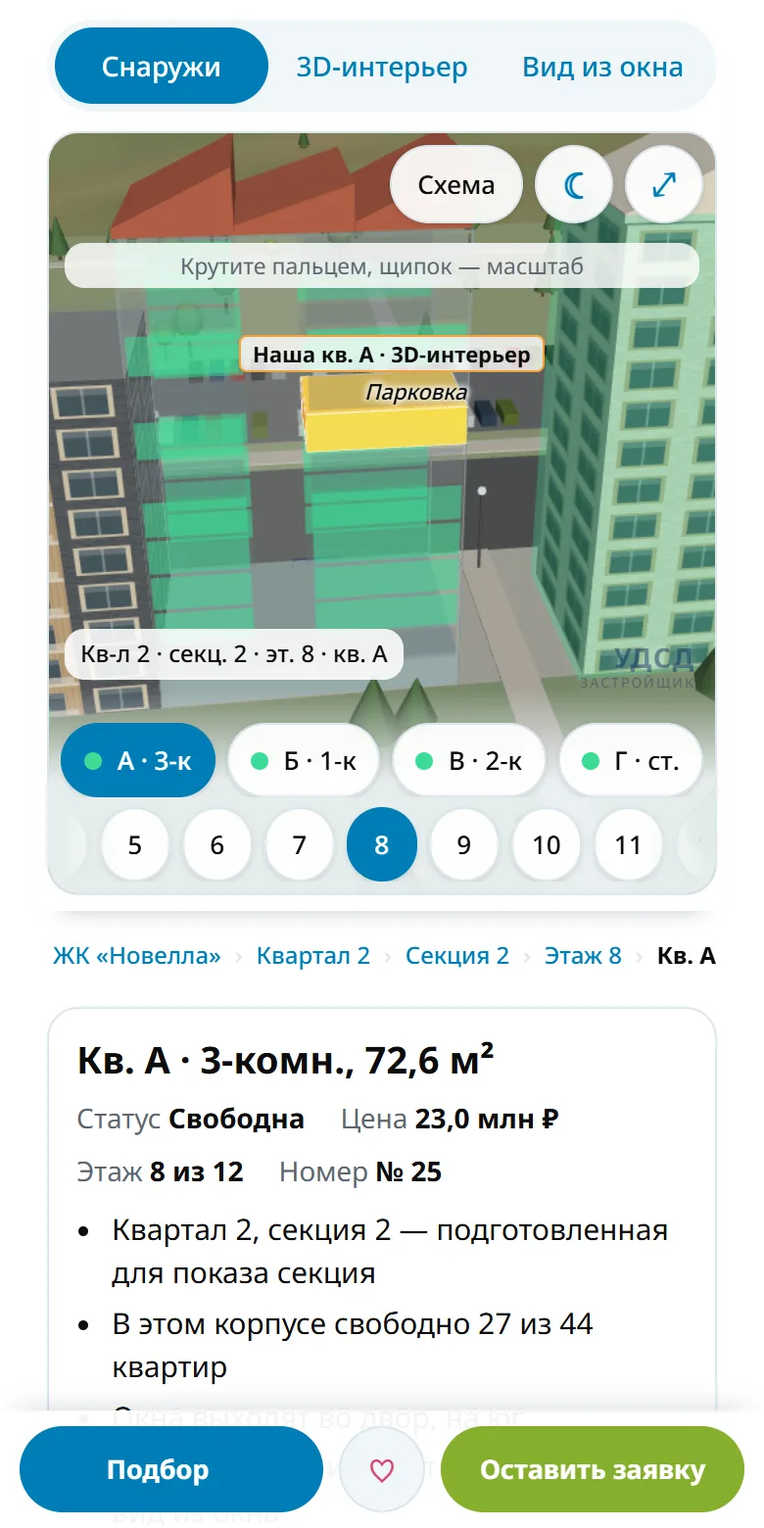
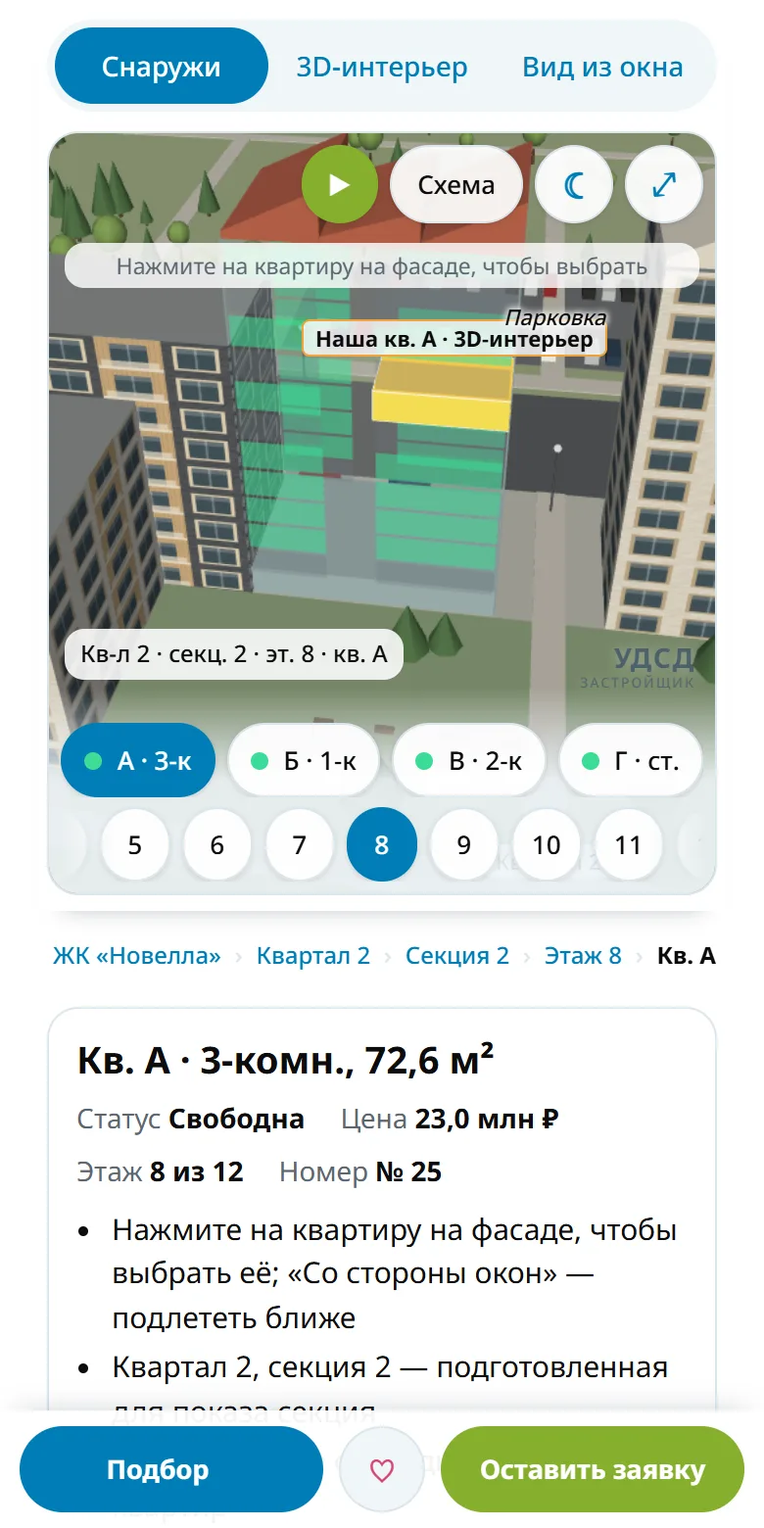
Выбор «сначала дом, потом квартира», экскурсия по шагам, старт на нашей квартире в 3D
Корпус выбирается касанием — камера подлетает и показывает весь дом, квартиры выбираются на его фасаде (ракурс «Весь дом»).
Экскурсия: 12 шагов от города до вида из окна вечером с плавными пролётами, пауза/шаги/выход, касание 3D — пауза; ?tour=1 и кнопка в КП.
Демо открывается на 3D-интерьере квартиры А; для остальных квартир 3D-интерьер и вид из окна — «в разработке».

Changed region(s): [[0.0615, 0.0615, 0.9538, 0.4923], [0.1538, 0.8, 0.8923, 0.9231]]

diff --git a/demo/index.html b/demo/index.html
@@ -215,6 +215,23 @@ svg text{font-family:var(--f-body)}
 /* taps: no double-tap zoom or delay on controls, no grey flash in Safari */
 button,select,summary,a,.chip,.rl{touch-action:manipulation;-webkit-tap-highlight-color:transparent}
 .stage.walk .logo{display:none}   /* walking: the mini-map takes that corner */
+.tabs button.dev:not([aria-pressed="true"]),.chip.dev{opacity:.5}   /* not drawn for the chosen flat yet: «в разработке» on tap */
+/* guided tour */
+.tourbtn{background:var(--green);border-color:var(--green);color:#fff;font-weight:700}
+@media (min-width:641px){.badge{max-width:calc(100% - 400px);white-space:nowrap;overflow:hidden;text-overflow:ellipsis}}
+@media (min-width:641px) and (max-width:1399px){.tourbtn .lg{display:none}}   /* the tool row would reach the location badge */
+body.touring #dock,body.touring .hint,body.touring .badge,body.touring #tourBtn,body.touring .logo,body.touring .mini{display:none}
+.tour{position:absolute;left:8px;right:8px;bottom:8px;z-index:3;display:flex;flex-direction:column;gap:6px;max-width:620px;margin:0 auto;background:color-mix(in srgb,var(--surf) 95%,transparent);border-radius:16px;padding:10px 12px;box-shadow:0 6px 22px rgba(0,0,0,.18)}
+.tour[hidden]{display:none}
+.tour-t{display:flex;justify-content:space-between;align-items:baseline;gap:10px}
+.tour-t b{font:700 17px var(--f-display)}
+.tour-t span{font-size:12.5px;color:var(--mut);white-space:nowrap}
+.tour p{margin:0;font-size:14px;line-height:1.4;color:var(--fg)}
+.tour-b{display:flex;gap:6px;align-items:center}
+.tour-dots{flex:1;display:flex;gap:3px;min-width:0}
+.tour-dots i{flex:1;height:4px;border-radius:2px;background:var(--line)}
+.tour-dots i.on{background:var(--acc)}
+.devtag{display:inline-block;font-size:12px;font-weight:600;color:#9a6a00;background:#fff3cd;border-radius:999px;padding:2px 9px;margin-left:6px;vertical-align:middle}
 /* side panel: where you are, card, finder */
 .side{display:flex;flex-direction:column;gap:14px;min-width:0}
 .crumbs{gap:4px;align-items:center;font-size:13px;color:var(--mut);padding:0}
@@ -319,6 +336,7 @@ button,select,summary,a,.chip,.rl{touch-action:manipulation;-webkit-tap-highligh
     <div class="badge" id="badge" hidden></div>
     <!-- one row of tools at the top right: plan, day/evening (chips on wide screens, one toggle on phones), full screen -->
     <div class="tbar">
+      <button type="button" class="planbtn tourbtn" id="tourBtn" aria-label="Экскурсия по «Новелле»">▶<span class="lg"> Экскурсия</span></button>
       <button type="button" class="planbtn" id="planBtn"><span class="lg">Схема квартиры</span><span class="sm">Схема</span></button>
       <div class="chips tchips" id="rTime" role="group" aria-label="Освещение"></div>
       <button type="button" class="icobtn sm" id="timeBtn" aria-label="Включить вечер">☾</button>
@@ -333,6 +351,18 @@ button,select,summary,a,.chip,.rl{touch-action:manipulation;-webkit-tap-highligh
       <div class="chips" id="rWin" data-m="win" role="group" aria-label="Окно"></div>
       <div class="chips" id="rApt" data-m="ext" role="group" aria-label="Квартира на этаже"></div>
       <div class="chips" id="rFloor" data-m="win ext" role="group" aria-label="Этаж"><span class="dlab">Этаж</span></div>
+    </div>
+    <!-- guided tour: one continuous journey from the city to the window, with camera flights between the steps -->
+    <div class="tour" id="tour" hidden role="region" aria-label="Экскурсия">
+      <div class="tour-t"><b id="tourT"></b><span id="tourN"></span></div>
+      <p id="tourD" aria-live="polite"></p>
+      <div class="tour-b">
+        <button type="button" class="icobtn" id="tourPrev" aria-label="Предыдущий шаг">‹</button>
+        <button type="button" class="icobtn" id="tourPlay" aria-label="Пауза">❚❚</button>
+        <button type="button" class="icobtn" id="tourNext" aria-label="Следующий шаг">›</button>
+        <div class="tour-dots" id="tourDots"></div>
+        <button type="button" class="icobtn" id="tourExit" aria-label="Выйти из экскурсии">✕</button>
+      </div>
     </div>
     <div class="fallback" id="fb"><div>Не удалось запустить 3D в этом браузере.<br>Обновите страницу (Ctrl+F5) или откройте её в Chrome, Яндекс Браузере или Edge. Если не помогло — включите в настройках браузера аппаратное ускорение.<small></small></div></div>
   </div>
@@ -389,6 +419,14 @@ button,select,summary,a,.chip,.rl{touch-action:manipulation;-webkit-tap-highligh
   <button type="button" class="chip mlead" id="mLead">Оставить заявку</button>
 </nav>
 <div class="tip" id="tip" hidden></div>
+<div class="dlg" id="dev" hidden role="dialog" aria-label="В разработке">
+  <div class="dlg-in">
+    <h2>В разработке</h2>
+    <p id="devWhat"></p>
+    <p class="note">В пилоте 3D-интерьеры и вид из окна строятся для всех планировок по проектам застройщика.</p>
+    <div class="dlg-btns"><button type="button" class="chip pick-show" id="devGo">Открыть квартиру А в 3D</button><button type="button" class="chip" id="devClose">Остаться здесь</button></div>
+  </div>
+</div>
 <div class="scrim" id="scrim" hidden></div>
 <div class="dlg" id="lead" hidden role="dialog" aria-label="Заявка на квартиру">
   <div class="dlg-in">
@@ -1129,7 +1167,7 @@ button,select,summary,a,.chip,.rl{touch-action:manipulation;-webkit-tap-highligh
       const sel = ext && sec.i === S.sec;
       if (sec.own) { sec.mesh.visible = ext && !(sel && glass); if (ownPart) ownPart.visible = !ext; }
       else sec.mesh.visible = !(sel && glass);
-      sec.ov.visible = ext && (S.layer === 'free' || fltOn()) && !sel;
+      sec.ov.visible = ext && (S.layer === 'free' || fltOn()) && !sel && S.extView !== 'house';   // «Весь дом»: only the chosen building speaks
     });
     selGlass.visible = selEdges.visible = ext && S.house === 'glass';
     cellG.visible = ext;
@@ -1329,7 +1367,7 @@ button,select,summary,a,.chip,.rl{touch-action:manipulation;-webkit-tap-highligh
     controls.minDistance = 0; controls.maxDistance = 100; controls.maxPolarAngle = Math.PI;
     const to = { pos: new THREE.Vector3(...pos), tgt: new THREE.Vector3(...tgt) };
     if (instant) { camera.position.copy(to.pos); controls.target.copy(to.tgt); limits(); }
-    else anim = { t0: performance.now(), dur: 900, p0: camera.position.clone(), g0: controls.target.clone(), to: to };
+    else anim = { t0: performance.now(), dur: document.body.classList.contains('touring') ? 1800 : 900, p0: camera.position.clone(), g0: controls.target.clone(), to: to };
   }
   function ease(t) { return t < 0.5 ? 4 * t * t * t : 1 - Math.pow(-2 * t + 2, 3) / 2; }
 
@@ -1352,7 +1390,7 @@ button,select,summary,a,.chip,.rl{touch-action:manipulation;-webkit-tap-highligh
     setRange(0.1, 3000);
     describe();
   }
-  const EXTV = { yard: { label: 'Со стороны окон' }, top: { label: 'Сверху' }, back: { label: 'С противоположной стороны' }, all: { label: 'Все корпуса' }, area: { label: 'Окрестности' }, city: { label: 'Весь город' } };
+  const EXTV = { house: { label: 'Весь дом' }, yard: { label: 'Со стороны окон' }, top: { label: 'Сверху' }, back: { label: 'С противоположной стороны' }, all: { label: 'Все корпуса' }, area: { label: 'Окрестности' }, city: { label: 'Весь город' } };
   function extTarget() {
     const sec = SECTIONS[S.sec], ci = cellInfo(sec, S.apt, S.floor);
     return [ci.c.x - ci.n.x * 3, ci.y + 1.5, ci.c.z - ci.n.z * 3, ci.n];
@@ -1366,6 +1404,15 @@ button,select,summary,a,.chip,.rl{touch-action:manipulation;-webkit-tap-highligh
     // the neighbourhood: over the quarters towards the nearest districts of the northern part of the city (south-east)
     if (S.extView === 'area') { flyTo([-800, 620, -950], [650, 0, 550], instant); return; }
     if (S.extView === 'all') { flyTo([0, 420, 270], [0, 0, 0], instant); return; }
+    // the chosen building as a whole: its facade on the side of the chosen apartment fills the screen, every flat on it pickable
+    if (S.extView === 'house') {
+      updateFov();
+      const sec = SECTIONS[S.sec], h = sec.floors * FLOOR_H, c = [sec.cx, h * 0.48, sec.cz], half = Math.tan(THREE.MathUtils.degToRad(camera.fov) / 2);
+      // from above at ~32°, so the opposite wing of the quarter (~50 m across the yard) does not stand between camera and facade
+      const R = Math.max(85, (h + 14) * 1.7 / (2 * half), sec.len * 1.8 / (2 * half * Math.min(camera.aspect, 1.6))), el = 0.6;
+      pos = [c[0] + n.x * R * Math.cos(el) + (n.z ? R * 0.12 : 0), c[1] + R * Math.sin(el), c[2] + n.z * R * Math.cos(el) + (n.x ? R * 0.12 : 0)];
+      flyTo(pos, c, instant); return;
+    }
     if (S.extView === 'top') pos = [tx[0] - 2, tx[1] + 95, tx[2] + 24];
     else if (S.extView === 'back') pos = [tx[0] - n.x * 76 + (n.z ? 10 : 0), tx[1] + 12, tx[2] - n.z * 76 + (n.x ? 10 : 0)];
     else pos = [tx[0] + n.x * 66 + (n.z ? -8 : 0), tx[1] + 30, tx[2] + n.z * 66 + (n.x ? -8 : 0)];
@@ -1459,7 +1506,7 @@ button,select,summary,a,.chip,.rl{touch-action:manipulation;-webkit-tap-highligh
   Object.keys(VIEWS).forEach((k) => chip($('rView'), VIEWS[k].label, () => S.view === k, () => { S.view = k; if (VIEWS[k].out) S.cam = 'top'; enterInterior(false); refresh(true); }));
   chip($('rCam'), 'Сверху, стены срезаны', () => S.cam === 'top', () => { S.cam = 'top'; enterInterior(false); refresh(true); }, { short: 'Сверху' });
   chip($('rCam'), 'Хожу по квартире', () => S.cam === 'walk', () => { S.cam = 'walk'; if (VIEWS[S.view].out) S.view = 'living'; enterInterior(true); refresh(true); }, { short: 'Хожу внутри' });
-  const EXT_SHORT = { yard: 'Со двора', top: 'Сверху', back: 'С улицы', all: 'Все корпуса', area: 'Окрестности', city: 'Весь город' };
+  const EXT_SHORT = { house: 'Весь дом', yard: 'Со двора', top: 'Сверху', back: 'С улицы', all: 'Все корпуса', area: 'Окрестности', city: 'Весь город' };
   Object.keys(EXTV).forEach((k) => chip($('rExtView'), EXTV[k].label, () => S.extView === k, () => { S.extView = k; flyExt(false); refresh(true); }, { short: EXT_SHORT[k] }));
   chip($('rHouse'), 'Прозрачный', () => S.house === 'glass', () => { S.house = 'glass'; refresh(true); });
   chip($('rHouse'), 'Сплошной', () => S.house === 'solid', () => { S.house = 'solid'; refresh(true); });
@@ -1475,10 +1522,11 @@ button,select,summary,a,.chip,.rl{touch-action:manipulation;-webkit-tap-highligh
   /* ---------- selecting buildings and apartments outside ---------- */
   function secName(sec) { return sec.own || sec.n ? 'Квартал ' + sec.q + ', секция ' + sec.n : 'Корпус'; }
   function firstFree(sec, f) { for (const l of LETTERS) if (status(sec.i, f, l) === 'free') return l; return 'a'; }
+  // step 1 of choosing: a building — the camera flies to it and shows its whole facade; step 2: an apartment on that facade
   function selectSection(i) {
     const sec = SECTIONS[i]; S.sec = i; if (S.floor > sec.floors) S.floor = sec.floors; if (S.floor < 2) S.floor = 2;
     S.apt = i === towerSec.i ? 'a' : firstFree(sec, S.floor); if (S.sec === towerSec.i && S.floor === 8) S.apt = 'a';
-    S.inner = false; afterPick();
+    S.inner = false; S.extView = 'house'; afterPick();
   }
   function selectApt(f, l) { S.floor = f; S.apt = l; afterPick(); }
   function afterPick() { placeOutside(); flyExt(false); refresh(true); }
@@ -1520,7 +1568,7 @@ button,select,summary,a,.chip,.rl{touch-action:manipulation;-webkit-tap-highligh
     GEO.forEach((g) => {
       if (city ? !/^(dist|part|novella)$/.test(g.k) : g.k === 'part' || g.k === 'novella') return;   // the city map shows only the city's names
       if (g.k === 'dist' && !wide) return;
-      if (g.k === 'sec' && ((S.layer !== 'free' && !fltOn()) || g.sec.i === S.sec || !(fltOn() ? g.sec.match : g.sec.free) || S.extView === 'area')) return;
+      if (g.k === 'sec' && ((S.layer !== 'free' && !fltOn()) || S.extView === 'house' || g.sec.i === S.sec || !(fltOn() ? g.sec.match : g.sec.free) || S.extView === 'area')) return;
       if (S.extView === 'area' && g.k === 'street' && !/Тундра|Озеро|ул\. Мира/.test(g.t)) return;
       if (S.extView === 'area' && /Квартал [1345]|Детский|Стадион/.test(g.t)) return;
       gv.set(g.x, g.y || 0.6, g.z).project(camera); if (gv.z > 1 || Math.abs(gv.x) > 1.05 || Math.abs(gv.y) > 1.05) return;
@@ -1569,11 +1617,12 @@ button,select,summary,a,.chip,.rl{touch-action:manipulation;-webkit-tap-highligh
     LETTERS.forEach((l) => { const st = status(S.sec, S.floor, l), t = TYPES[l]; aptBtns[l].dot.style.background = ST[st].c; aptBtns[l].tx.nodeValue = ' ' + t.n + ' · ' + (narrow() ? t.short.replace('-комн.', '-к').replace('Студия', 'ст.') : t.short + ' ' + fmt(t.area)); });   // phones: all four fit in one row, the area is in the card
   }
   const actPlan = chip($('rAct'), 'Схема планировки', () => false, () => openPlan());
-  const act3d = chip($('rAct'), 'Интерьер 3D', () => false, () => { S.mode = 'ext'; enterInterior(true); refresh(true); });
-  const actWin = chip($('rAct'), 'Вид из окна', () => false, () => { enterWindow(); refresh(true); });
+  const act3d = chip($('rAct'), 'Интерьер 3D', () => false, () => { if (!isOwn()) { devDlg('int'); return; } S.mode = 'ext'; enterInterior(true); refresh(true); });
+  const actWin = chip($('rAct'), 'Вид из окна', () => false, () => { if (!isOwn()) { devDlg('win'); return; } enterWindow(); refresh(true); });
   function fillExtPanel() {
     fillSelect(); fillApts();
-    const own = isOwn(); act3d.hidden = actWin.hidden = !own; $('rowInner').hidden = !own;
+    const own = isOwn(); $('rowInner').hidden = !own;
+    [act3d, actWin].forEach((b) => b.classList.toggle('dev', !own));   // only apartment A is drawn inside; the rest say «в разработке»
     const sec = SECTIONS[S.sec];
     floorBtns.forEach((b, i) => { b.hidden = (i + 2) > sec.floors; });
   }
@@ -1632,7 +1681,7 @@ button,select,summary,a,.chip,.rl{touch-action:manipulation;-webkit-tap-highligh
   }
   function goApt(si, f, l) {
     S.sec = si; S.floor = f; S.apt = l; S.inner = false;
-    if (S.extView === 'all' || S.extView === 'area' || S.extView === 'city') S.extView = 'yard';
+    if (S.extView === 'all' || S.extView === 'area' || S.extView === 'city') S.extView = 'house';   // from afar: first the whole building, the flat lit on it
     if (S.mode !== 'ext') { enterExt(true); refresh(true); } else afterPick();
   }
   const openPick = () => { document.body.classList.add('picking'); $('scrim').hidden = false; };
@@ -1643,7 +1692,7 @@ button,select,summary,a,.chip,.rl{touch-action:manipulation;-webkit-tap-highligh
   function renderCrumbs() {
     const c = $('crumbs'); c.textContent = '';
     const a = curApt(), sec = SECTIONS[a.sec];
-    const items = [['ЖК «Новелла»', () => goExt('all')], ['Квартал ' + sec.q, () => goExt('top')], ['Секция ' + sec.n, () => goExt('back')], ['Этаж ' + a.floor, () => goExt('yard')], ['Кв. ' + TYPES[a.apt].n, () => goExt('yard')]];
+    const items = [['ЖК «Новелла»', () => goExt('all')], ['Квартал ' + sec.q, () => goExt('top')], ['Секция ' + sec.n, () => goExt('house')], ['Этаж ' + a.floor, () => goExt('yard')], ['Кв. ' + TYPES[a.apt].n, () => goExt('yard')]];
     if (S.mode === 'int') items.push(['3D-интерьер']); if (S.mode === 'win') items.push(['Вид из окна']);
     items.forEach((it, i) => {
       if (i) { const s = document.createElement('i'); s.textContent = '›'; c.appendChild(s); }
@@ -1695,7 +1744,7 @@ button,select,summary,a,.chip,.rl{touch-action:manipulation;-webkit-tap-highligh
     const done = () => { $('leadCopy').textContent = 'Ссылка скопирована'; };
     try { navigator.clipboard.writeText(location.href).then(done, () => { $('leadCopy').textContent = location.href; }); } catch (e) { $('leadCopy').textContent = location.href; }
   });
-  document.addEventListener('keydown', (e) => { if (e.key === 'Escape') { closePick(); $('lead').hidden = true; } });
+  document.addEventListener('keydown', (e) => { if (e.key === 'Escape') { closePick(); $('lead').hidden = true; $('dev').hidden = true; } });
   // a link per apartment: ?mode=ext&sec=2-2&floor=8&apt=a (kept current while browsing)
   function updateUrl() {
     if (!urlReady) return;   // not until the start-up has applied the link it was opened with
@@ -1760,8 +1809,72 @@ button,select,summary,a,.chip,.rl{touch-action:manipulation;-webkit-tap-highligh
   }
   addEventListener('scroll', checkPin, { passive: true }); addEventListener('resize', checkPin);
   document.addEventListener('keydown', (e) => { if (e.key === 'Escape' && document.body.classList.contains('full') && sheetEl.hidden) setFull(false); });
-  $('tInt').addEventListener('click', () => { if (S.mode !== 'int') { enterInterior(true); refresh(true); } });
-  $('tWin').addEventListener('click', () => { if (S.mode !== 'win') { enterWindow(); refresh(true); } });
+  $('tInt').addEventListener('click', () => { if (S.mode === 'ext' && !isOwn()) { devDlg('int'); return; } if (S.mode !== 'int') { enterInterior(true); refresh(true); } });
+  $('tWin').addEventListener('click', () => { if (S.mode === 'ext' && !isOwn()) { devDlg('win'); return; } if (S.mode !== 'win') { enterWindow(); refresh(true); } });
+  // 3D inside and the window view exist only for apartment A (quarter 2, section 2, floor 8): for any other flat say so and offer A
+  function devDlg(mode) {
+    const t = TYPES[S.apt], sec = SECTIONS[S.sec];
+    $('devWhat').textContent = (mode === 'win' ? 'Вид из окна' : '3D-интерьер') + ' для кв. ' + t.n + ' (' + secName(sec).toLowerCase() + ', этаж ' + S.floor + ') — в разработке. Сейчас внутри прорисована квартира А: 3 комнаты, 72,6 м², квартал 2, секция 2, этаж 8.';
+    $('devGo').textContent = mode === 'win' ? 'Вид из окна квартиры А' : 'Открыть квартиру А в 3D';
+    $('devGo').onclick = () => { $('dev').hidden = true; S.sec = towerSec.i; S.apt = 'a'; S.floor = 8; S.inner = false; placeOutside(); if (mode === 'win') enterWindow(); else enterInterior(true); refresh(true); };
+    $('dev').hidden = false;
+  }
+  /* ---------- guided tour: city → complex → finder → our building → floor → interior → pre-finish → window, day and evening ----------
+     (after the stadium demo by By Omid: one continuous journey with camera flights, pause / steps / exit; touching the 3D pauses it) */
+  const tourOwn = () => { S.sec = towerSec.i; S.apt = 'a'; S.floor = 8; S.inner = false; };
+  const tourInt = (view, cam, finish) => { tourOwn(); S.view = view; S.cam = cam; S.finish = finish; S.time = 'day'; placeOutside(); enterInterior(true); refresh(true); };
+  const tourNoFilter = () => { if (fltOn()) { FLT.rooms.clear(); FLT.price = Infinity; FLT.floor = 'any'; FLT.free = true; fPrice.value = pMax; $('fFree').checked = true; computeMatches(); cellsKey = ''; } };
+  const TOUR = [
+    { t: 'Новый Уренгой', d: '«Новелла» — в северной части города, мкр. Уютный. Микрорайоны, реки и дороги — по OpenStreetMap.', go: () => { tourNoFilter(); tourOwn(); S.time = 'day'; goExt('city'); } },
+    { t: 'Окрестности', d: 'Рядом — микрорайоны Славянский, Олимпийский, Мирный. Ул. Мира идёт вдоль кварталов.', go: () => goExt('area') },
+    { t: 'Весь комплекс', d: '5 кварталов, 5–12 этажей. Зелёным подсвечены корпуса, где есть свободные квартиры.', go: () => { tourNoFilter(); goExt('all'); } },
+    { t: 'Подбор', d: 'Выбраны 3-комнатные: подходящие корпуса подсвечены, на каждом — сколько подходит.', go: () => { FLT.rooms = new Set([3]); onFilter(); goExt('all'); } },
+    { t: 'Ваш дом', d: 'Квартал 2, секция 2 целиком: дом прозрачный, квартиры по статусам, наша А на 8 этаже выделена.', go: () => { tourNoFilter(); tourOwn(); goExt('house'); } },
+    { t: 'Квартира на фасаде', d: 'Квартира А ближе: статус, цена, этаж и номер — в карточке.', go: () => { tourOwn(); goExt('yard'); } },
+    { t: 'План этажа', d: 'Соседи по площадке со статусами, лифты, холл и лестница (типовое решение до планов застройщика).', go: () => tourInt('top', 'top', 'design') },
+    { t: '3D-интерьер', d: 'Вся квартира сверху, стены срезаны: дизайн-проект и площадь каждой комнаты.', go: () => tourInt('overview', 'top', 'design') },
+    { t: '«Как продаем»', d: 'Предчистовая отделка по стандарту УДСД — вид с уровня глаз из гостиной.', go: () => tourInt('living', 'walk', 'bare') },
+    { t: 'Вид из окна', d: 'Из гостиной с 8 этажа: что видно днём.', go: () => { tourOwn(); S.finish = 'design'; S.win = 'living'; S.time = 'day'; enterWindow(); refresh(true); } },
+    { t: 'Вечером', d: 'В окнах соседних домов горит свет, во дворах — фонари.', go: () => { S.time = 'eve'; refresh(); } },
+    { t: 'Выбор за вами', d: 'Сердечко — в избранное, «Оставить заявку» — менеджер перезвонит. Дальше управляйте сами.', go: () => { S.time = 'day'; tourOwn(); goExt('yard'); } }
+  ];
+  const tourEl = $('tour'), tour = { i: -1, playing: false, timer: 0, full: false };
+  const TOUR_MS = 6500;
+  for (let k = 0; k < TOUR.length; k++) $('tourDots').appendChild(document.createElement('i'));
+  function tourRender() {
+    const st = TOUR[tour.i]; $('tourT').textContent = st.t; $('tourN').textContent = (tour.i + 1) + ' из ' + TOUR.length;
+    $('tourD').textContent = tour.playing ? st.d : st.d + ' (пауза: можно крутить камеру самому, ▶ — дальше)';
+    $('tourPlay').textContent = tour.playing ? '❚❚' : '▶'; $('tourPlay').setAttribute('aria-label', tour.playing ? 'Пауза' : 'Продолжить');
+    [...$('tourDots').children].forEach((d, k) => d.classList.toggle('on', k <= tour.i));
+    $('tourPrev').disabled = tour.i === 0;
+    stageEl.style.setProperty('--dockh', '0px'); updateFov();
+  }
+  function tourGo(i) {
+    clearTimeout(tour.timer); tour.i = Math.max(0, Math.min(TOUR.length - 1, i));
+    TOUR[tour.i].go(); tourRender();
+    if (tour.playing) tour.timer = setTimeout(() => { if (tour.i + 1 < TOUR.length) tourGo(tour.i + 1); else { tour.playing = false; tourRender(); } }, TOUR_MS);
+  }
+  function tourStart() {
+    closePick(); $('lead').hidden = $('dev').hidden = true; sheetEl.hidden = true;
+    document.body.classList.add('touring'); tourEl.hidden = false; tour.playing = true;
+    tour.full = narrow() && !document.body.classList.contains('full'); if (tour.full) setFull(true);   // a phone gives the whole screen to the tour
+    tourGo(0);
+  }
+  function tourPause() { if (!tour.playing) return; tour.playing = false; clearTimeout(tour.timer); tourRender(); }
+  function tourExit() {
+    clearTimeout(tour.timer); tour.playing = false; tour.i = -1; tourEl.hidden = true; document.body.classList.remove('touring');
+    tourNoFilter(); S.time = 'day'; if (tour.full) setFull(false); else { resize(); refresh(true); }
+  }
+  $('tourBtn').addEventListener('click', tourStart);
+  $('tourPlay').addEventListener('click', () => { if (tour.playing) tourPause(); else { tour.playing = true; tourGo(tour.i + 1 < TOUR.length ? tour.i + 1 : 0); } });
+  $('tourPrev').addEventListener('click', () => { tourPause(); tourGo(tour.i - 1); });
+  $('tourNext').addEventListener('click', () => { tourPause(); tourGo(tour.i + 1); });
+  $('tourExit').addEventListener('click', tourExit);
+  ['pointerdown', 'wheel'].forEach((ev) => cv.addEventListener(ev, () => { if (tour.i >= 0) tourPause(); }, { passive: true }));   // free flight: the visitor takes the camera
+  document.addEventListener('keydown', (e) => { if (tour.i < 0) return; if (e.key === 'Escape') tourExit(); else if (e.key === 'ArrowRight') { tourPause(); tourGo(tour.i + 1); } else if (e.key === 'ArrowLeft') { tourPause(); tourGo(tour.i - 1); } else if (e.key === ' ') { e.preventDefault(); $('tourPlay').click(); } });
+  $('devClose').addEventListener('click', () => { $('dev').hidden = true; });
+  $('dev').addEventListener('click', (e) => { if (e.target.id === 'dev') $('dev').hidden = true; });
+  sync.push(() => { const dev = S.mode === 'ext' && !isOwn(); ['tInt', 'tWin'].forEach((id) => { $(id).classList.toggle('dev', dev); $(id).title = dev ? 'Для этой квартиры — в разработке' : ''; }); });
   $('tExt').addEventListener('click', () => { if (S.mode !== 'ext') { S.sec = towerSec.i; S.apt = 'a'; S.inner = false; S.extView = 'yard'; enterExt(true); refresh(true); } });
 
   ROOMS.forEach((r) => {
@@ -1794,8 +1907,9 @@ button,select,summary,a,.chip,.rl{touch-action:manipulation;-webkit-tap-highligh
       left.appendChild(el('h2', '', 'Кв. ' + t.n + ' · ' + t.short + ', ' + fmt(area(S.sec, S.floor, S.apt)) + ' м²'));
       left.appendChild(metaRow([['Статус', ST[st].t], ['Цена', st === 'sold' ? '—' : money(price(S.sec, S.floor, S.apt))], ['Этаж', S.floor + ' из ' + sec.floors], ['Номер', '№ ' + aptNum(S.sec, S.floor, S.apt)]]));
       const ul = el('ul');
-      [secName(sec) + (sec.own ? ' — подготовленная для показа секция' : ''), 'В этом корпусе свободно ' + sec.free + ' из ' + sec.total + ' квартир', 'Окна выходят ' + (t.face === 1 ? 'во двор, на юг' : 'на улицу, на север'),
-       sec.own && S.apt === 'a' ? 'Для этой квартиры есть 3D-интерьер и вид из окна' : 'Для этой планировки доступна схема; 3D-интерьер пока только у квартиры А секции 2 квартала 2'].forEach((x) => ul.appendChild(el('li', '', x)));
+      (S.extView === 'house' ? ['Нажмите на квартиру на фасаде, чтобы выбрать её; «Со стороны окон» — подлететь ближе'] : []).concat([secName(sec) + (sec.own ? ' — подготовленная для показа секция' : ''), 'В этом корпусе свободно ' + sec.free + ' из ' + sec.total + ' квартир', 'Окна выходят ' + (t.face === 1 ? 'во двор, на юг' : 'на улицу, на север'),
+       sec.own && S.apt === 'a' ? 'Для этой квартиры есть 3D-интерьер и вид из окна' : '3D-интерьер и вид из окна — в разработке; есть схема планировки. Внутри уже прорисована квартира А (квартал 2, секция 2, этаж 8)']).forEach((x) => ul.appendChild(el('li', '', x)));
+      if (!(sec.own && S.apt === 'a')) { const tg = el('span', 'devtag', '3D в разработке'); left.querySelector('h2').appendChild(tg); }
       right.appendChild(ul);
     } else if (S.mode === 'win') {
       const d = describe.data;
@@ -1844,8 +1958,8 @@ button,select,summary,a,.chip,.rl{touch-action:manipulation;-webkit-tap-highligh
   }
   let hintTimer = 0, hintKey = '';
   function hintText() {
-    const h = $('hint'), key = S.mode + S.cam;
-    h.textContent = narrow()
+    const house = S.mode === 'ext' && S.extView === 'house', h = $('hint'), key = S.mode + S.cam + (house ? 'h' : '');
+    h.textContent = house ? 'Нажмите на квартиру на фасаде, чтобы выбрать' : narrow()
       ? (S.mode === 'win' ? 'Потяните — осмотреться, щипок — угол обзора' : S.mode === 'int' && S.cam === 'walk' ? 'Нажмите на пол — пройти, потяните — осмотреться' : 'Крутите пальцем, щипок — масштаб')
       : (S.mode === 'ext' ? 'Крутите пальцем или мышью, щипок меняет масштаб' : S.mode === 'win' ? 'Потяните, чтобы осмотреться, колесо или щипок меняют угол обзора'
         : (S.cam === 'walk' ? 'Нажмите на пол, чтобы пройти. Потяните, чтобы осмотреться' : 'Крутите пальцем или мышью, щипок меняет масштаб'));
@@ -2083,7 +2197,7 @@ button,select,summary,a,.chip,.rl{touch-action:manipulation;-webkit-tap-highligh
   }
   function updateFov() {
     const w = stageEl.clientWidth, h = stageEl.clientHeight; if (!w || !h) return;
-    const asp = w / h, d = dockEl.offsetHeight;
+    const tourEl = $('tour'), asp = w / h, d = tourEl && !tourEl.hidden ? tourEl.offsetHeight + 16 : dockEl.offsetHeight;   // the tour panel covers the bottom like the dock
     camera.fov = S.mode === 'ext' ? (asp < 0.9 ? 50 : 38) : S.mode === 'win' ? (asp < 0.9 ? 78 : 62) : (S.cam === 'walk' ? (asp < 0.9 ? 72 : 62) : (asp < 0.9 ? 60 : 42));
     // the dock covers the bottom d px: render the top part of a taller virtual frame, so what the camera aims at sits mid-way in the free area
     camera.aspect = w / (h + d);
@@ -2144,10 +2258,12 @@ button,select,summary,a,.chip,.rl{touch-action:manipulation;-webkit-tap-highligh
   S.sec = qSec ? qSec.i : towerSec.i; S.apt = TYPES[qA] ? qA : 'a'; S.inner = false; S.extView = 'yard';
   if (qF >= 2 && qF <= SECTIONS[S.sec].floors) S.floor = qF;
   urlReady = true;
-  if (Q.get('mode') === 'int' || Q.get('mode') === 'win') { S.sec = towerSec.i; S.apt = 'a'; placeOutside(); if (Q.get('mode') === 'win') enterWindow(); else enterInterior(true); refresh(true); }
-  else { enterExt(true); refresh(true); }
+  // without a link the demo opens on our apartment A in 3D: it is the only one drawn inside (the others say «в разработке»)
+  if (Q.get('mode') === 'ext') { enterExt(true); refresh(true); }
+  else { S.sec = towerSec.i; S.apt = 'a'; if (!(qF >= 2 && qF <= 12)) S.floor = 8; placeOutside(); if (Q.get('mode') === 'win') enterWindow(); else enterInterior(true); refresh(true); }
   if (narrow()) $('moreExt').open = false;   // phones: rare settings folded, so the card and the main rows stay close to the 3D
   $('moreExt').addEventListener('toggle', () => document.querySelectorAll('.chips').forEach(fades));
+  if (Q.get('tour')) setTimeout(tourStart, 700);   // ?tour=1 — opens straight into the guided tour (sales office screen, the proposal page)
   requestAnimationFrame(frame);
   window.__nv = { S: S, walk: walk, startWalk: startWalk, enterWindow: enterWindow, enterInterior: enterInterior, refresh: refresh, camera: camera, describe: describe, data: DATA_OK ? 'json' : 'generated' };
 });

diff --git a/index.html b/index.html
@@ -204,6 +204,7 @@ footer{border-top:1px solid var(--line);padding:32px 0 40px;margin-top:20px}
     <p class="lead">Покупатель на сайте выбирает свободную квартиру в 3D, заходит внутрь, смотрит отделку «как продаем» и вид из окна с нужного этажа. Пилот на одну секцию — от 250 тыс. ₽ и 1–2 недели, весь комплекс — 0,7–1,1 млн ₽ и 2–4 недели.</p>
     <div class="btns">
       <a class="btn pri" href="demo/">Открыть демо «Новеллы»</a>
+      <a class="btn blue" href="demo/?tour=1">▶ Экскурсия за 1,5 минуты</a>
       <a class="btn blue" href="#calc">Рассчитать стоимость</a>
     </div>
     <div class="stats" role="list">
@@ -252,7 +253,8 @@ footer{border-top:1px solid var(--line);padding:32px 0 40px;margin-top:20px}
     </ol>
     <p class="note" style="margin:14px 0 0">Фасады в 3D повторяют архитектуру «Новеллы» с визуализаций УДСД: красный, графитовый и светлый кирпич, светлые обрамления окон, лоджии с отделкой под дерево, «зубчатые» кровли высоких секций и остеклённая галерея первых этажей.</p>
     <p class="note" style="margin:14px 0 0">Навигация собрана по лучшим мировым практикам выбора квартир: подбор по комнатам, цене и этажу сразу подсвечивает подходящие квартиры на фасадах всех корпусов и даёт список; путь «ЖК › квартал › секция › этаж › квартира» виден всегда; у каждой квартиры своя ссылка, сердечко «в избранное» и кнопка заявки. На компьютере 3D занимает всю высоту, справа — панель с подбором, при наведении на дом или квартиру появляется подсказка с ценой. На телефоне 3D сверху, подбор выезжает снизу, а «Подбор», «♡» и «Оставить заявку» — под большим пальцем.</p>
-    <div class="extra"><span>Подбор с подсветкой на фасадах</span><span>Избранное</span><span>Заявка на квартиру</span><span>Ссылка на каждую квартиру</span><span>Фасады «Новеллы»</span><span>Вечерний режим</span><span>Статусы и цены из базы продаж</span></div>
+    <p class="note" style="margin:10px 0 0">Выбор как на лучших 3D-стадионах и ЖК: сначала корпус — камера подлетает к нему и показывает весь дом, затем квартира на его фасаде. Экскурсия ведёт по одному маршруту от города до вида из окна с плавными пролётами камеры; её можно поставить на паузу и крутить сцену самому.</p>
+    <div class="extra"><span>Экскурсия по шагам</span><span>Сначала дом, потом квартира</span><span>Подбор с подсветкой на фасадах</span><span>Избранное</span><span>Заявка на квартиру</span><span>Ссылка на каждую квартиру</span><span>Фасады «Новеллы»</span><span>Вечерний режим</span><span>Статусы и цены из базы продаж</span></div>
   </section>
 
   <section>

diff --git a/tools/mockups.js b/tools/mockups.js
@@ -12,10 +12,10 @@ fs.mkdirSync(OUT, { recursive: true });
 
 const chip = ([sel, text]) => [...document.querySelectorAll(sel + ' .chip')].find((c) => c.textContent.includes(text)).click();
 const SHOTS = [
-  // in the order of the demo's tabs: Снаружи, 3D-интерьер, Вид из окна (the demo opens on Снаружи)
-  ['mock-free', async (p) => { await p.evaluate(chip, ['#rExtView', 'Все корпуса']); }],
-  ['mock-facade', async () => {}],
-  ['mock-city', async (p) => { await p.evaluate(chip, ['#rExtView', 'Весь город']); }],
+  // in the order of the demo's tabs: Снаружи, 3D-интерьер, Вид из окна (the demo opens on our apartment in 3D)
+  ['mock-free', async (p) => { await p.click('#tExt'); await p.waitForTimeout(1200); await p.evaluate(chip, ['#rExtView', 'Все корпуса']); }],
+  ['mock-facade', async (p) => { await p.click('#tExt'); await p.waitForTimeout(1200); await p.evaluate(chip, ['#rExtView', 'Весь дом']); }],
+  ['mock-city', async (p) => { await p.click('#tExt'); await p.waitForTimeout(1200); await p.evaluate(chip, ['#rExtView', 'Весь город']); }],
   ['mock-design', async (p) => { await p.click('#tInt'); }],
   ['mock-bare', async (p) => { await p.click('#tInt'); await p.waitForTimeout(800); await p.evaluate(chip, ['#rFinish', 'Как продаем']); await p.evaluate(chip, ['#rView', 'Гостиная']); await p.evaluate(chip, ['#rCam', 'Хожу']); }],
   ['mock-plan', async (p) => { await p.click('#tInt'); await p.waitForTimeout(800); await p.evaluate(chip, ['#rView', 'План сверху']); }],

diff --git a/CLAUDE.md b/CLAUDE.md
@@ -50,3 +50,6 @@
 - Телефон, прокрутка: после прокрутки ниже `#pinMark` на 48 px у `body` класс `pinned` (`checkPin()`, обратно — у самого верха): закреплённая 3D уменьшается до ~32svh и прячет док, подсказку, логотип, мини-карту, чтобы панели и карточка были видны (жалоба с iPhone, 27.10.2026). Высоты на телефоне — в `svh` (видимая часть экрана Safari с панелями), с запасным `vh`.
 - Порядок под сценой: карточка квартиры (`#card`) сразу под закреплённым блоком, затем панели; в «Снаружи» сначала «Подробнее», корпус, легенда, ракурс, а редкие (подсветка, дом, квартира внутри) — в `<details id="moreExt">` «Ещё настройки» (на телефоне свёрнут). На телефоне надзаголовок скрыт, заголовок одной строкой; у кнопок `touch-action:manipulation` (без задержки и двойного зума в Safari).
 - Навигация по образцу лучших сервисов выбора квартир (Render Vision, Maverickframe, VisEngine, Plan7; 28.10.2026): подбор `FLT` (комнаты, цена до, этаж, только свободные) — `fltMatch()`, `computeMatches()` красит подложки корпусов, подписи «N подх.», на фасаде выбранного корпуса неподходящие ячейки бледнеют (`cellDim`), список `#pickList` → `goApt()`; цепочка `#crumbs` (ЖК › квартал › секция › этаж › квартира, каждый уровень — ракурс); избранное (localStorage `nv-fav`, сердечко в карточке и в нижней панели); «Оставить заявку» — окно-демо без отправки данных; ссылка на квартиру `?mode=&sec=q-n&floor=&apt=` (`Q` читается до первого `refresh`, `updateUrl` после `urlReady`). Компьютер (≥1024px): сетка — 3D слева на всю высоту, справа `.side`; подсказка `#tip` при наведении (только мышь). Телефон: подбор — нижний лист (`body.picking`), снизу `.mbar` (Подбор · N, ♡, Оставить заявку).
+- Старт демо — **3D-интерьер нашей квартиры А** (единственная прорисованная; решение пользователя 28.10.2026); `?mode=ext` открывает «Снаружи». Для других квартир вкладки «3D-интерьер»/«Вид из окна» и кнопки «Подробнее» бледные (`.dev`), по нажатию окно `#dev` «в разработке» с кнопкой «Открыть квартиру А в 3D»; в карточке метка «3D в разработке».
+- Выбор в два шага (как у 3D-стадиона By Omid): корпус (касание по дому, метка «N своб.», список корпусов) → `selectSection` ставит ракурс `extView:'house'` — камера сверху ~34° показывает весь дом, подложки и метки других корпусов гаснут; затем квартира на фасаде — вид дома остаётся. Из подбора и издалека `goApt` тоже ведёт на «Весь дом».
+- Экскурсия (`TOUR`, 12 шагов: город → окрестности → комплекс → подбор → дом → квартира → план этажа → интерьер → «как продаем» → вид из окна днём → вечером → финал): кнопка «▶ Экскурсия» в `.tbar`, панель `#tour` вместо дока, пролёты камеры 1,8 с, шаг 6,5 с; касание 3D — пауза; на телефоне на весь экран; `?tour=1` открывает сразу экскурсию (ссылка в КП).
